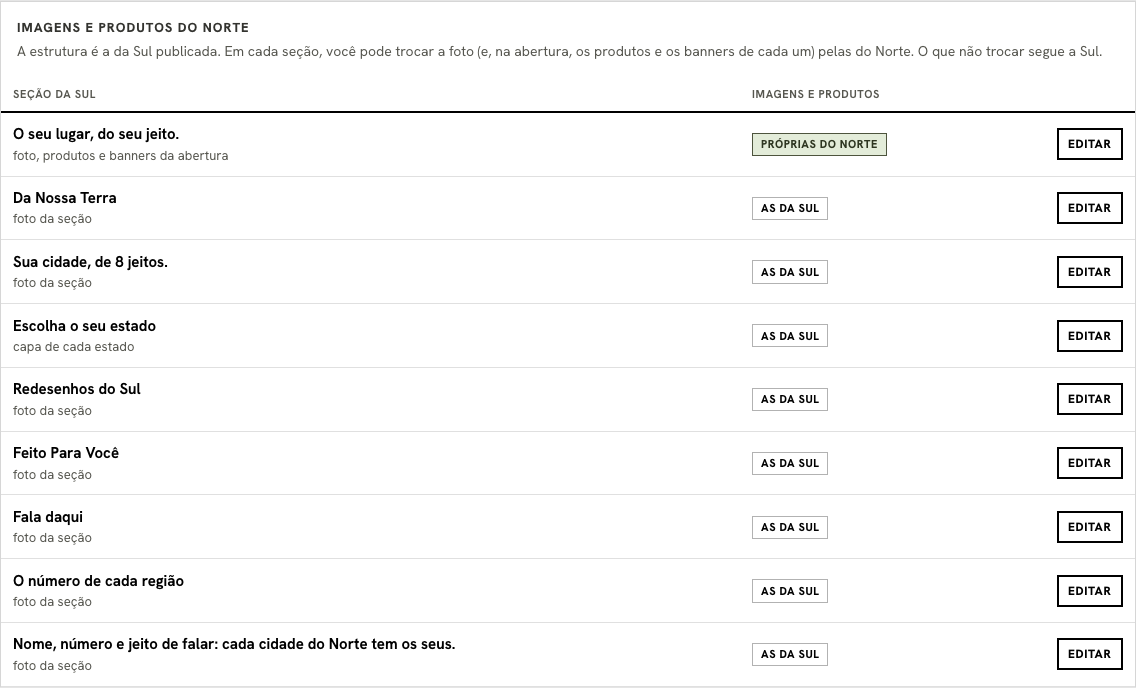
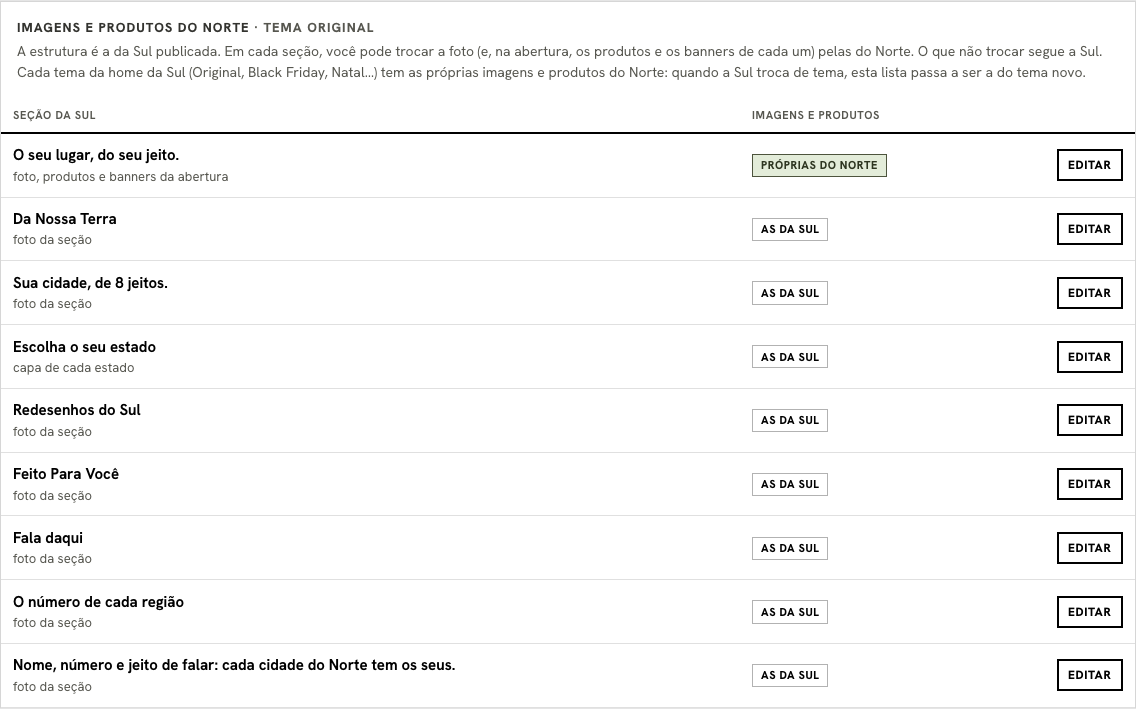
feat(admin): imagens e produtos da região valem por tema da home da Sul
Temas sazonais copiam as seções com os mesmos ids: sem o tema, a foto do
dia a dia do Norte cobriria a abertura de Natal da Sul. Também: lista vazia
não fixa "sem produtos" na região, aviso de legibilidade no modo regional
e teste da mídia enviada na publicação.

diff --git a/src/app/admin/actions.ts b/src/app/admin/actions.ts
@@ -32,7 +32,7 @@ import { collectionState } from "@/lib/catalog/collections";
 import { REGION_SLUGS, type RegionSlug } from "@/lib/geo/regions";
 import { enabledInternalIds, inkCollectionLinks } from "@/lib/site-config/collections-enabled";
 import { MUNDO_MODOS, type MundoModo } from "@/lib/site-config/mundo-schema";
-import { DEFAULT_BUY_LABEL, HOME_THEMES, isUmaPencaSource, MAX_BUY_LABEL, MAX_COLLECTION_NOTE, maxSectionProducts, MENU_HIGHLIGHT_KEYS, MIN_SECTION_PRODUCTS, type CollectionHighlight, type CollectionNote, type HomeThemeName, type ProductDisplay, type Scope, type TrackingConfig, type VendorSetting } from "@/lib/site-config/schema";
+import { DEFAULT_BUY_LABEL, HOME_THEMES, homeThemeOf, isUmaPencaSource, MAX_BUY_LABEL, MAX_COLLECTION_NOTE, maxSectionProducts, MENU_HIGHLIGHT_KEYS, MIN_SECTION_PRODUCTS, type CollectionHighlight, type CollectionNote, type HomeThemeName, type ProductDisplay, type Scope, type TrackingConfig, type VendorSetting } from "@/lib/site-config/schema";
 import { CARD_BUY_STYLE_NAME, postedBuyStyle } from "@/lib/site-config/cards-schema";
 import { DEFAULT_CAROUSEL_END_LABEL, MAX_CAROUSEL_END_LABEL } from "@/lib/site-config/carousel-end-schema";
 import { hasHomeTheme, HOME_THEME_LABEL } from "@/lib/site-config/home-themes";
@@ -495,10 +495,10 @@ export async function setFollowAction(fd: FormData) {
  * One of Sul's sections as the region shows it while following Sul's home: `own` = with the region's pictures and products, else exactly Sul's (adapted).
  * Read from Sul's PUBLISHED document, the one the store follows.
  */
-async function followedSection(scope: RegionSlug, id: string, own: boolean): Promise<Section | undefined> {
+async function followedSection(scope: RegionSlug, id: string, own: boolean): Promise<{ section: Section | undefined; theme: HomeThemeName }> {
   const [ws, sul] = await Promise.all([loadWorkspace(scope), loadWorkspace(FOLLOW_SOURCE)]);
   const doc = { ...ws.doc, follow: ["home" as const], ...(own ? {} : { regional: undefined }) };
-  return followedDoc(doc, sul.baseDoc, true).home?.sections.find((s) => s.id === id);
+  return { section: followedDoc(doc, sul.baseDoc, true).home?.sections.find((s) => s.id === id), theme: homeThemeOf(sul.baseDoc) };
 }
 
 /**
@@ -510,11 +510,13 @@ export async function saveRegionalSection(fd: FormData) {
   const id = text(fd, "id");
   const to = `/admin/home/regional/${id}`;
   if (scope === FOLLOW_SOURCE) back("/admin/home", { err: ["A Sul edita as próprias seções direto."] });
-  const [base, current] = await Promise.all([followedSection(scope, id, false), followedSection(scope, id, true)]);
+  const [{ section: base, theme }, { section: current }] = await Promise.all([followedSection(scope, id, false), followedSection(scope, id, true)]);
   if (!base || !current) back("/admin/home", { err: ["Essa seção não está mais na home publicada da Sul."] });
   const patch = parseSectionForm(fd, current);
-  const same = (a: unknown, b: unknown) => JSON.stringify(a ?? null) === JSON.stringify(b ?? null);
-  const entry: RegionalSection = { sectionId: id };
+  // "Nothing" is one value whatever its spelling (absent, [] or {}): an untouched empty list must not pin "no products" over a later list of Sul's.
+  const empty = (v: unknown) => v === undefined || v === null || (Array.isArray(v) && v.length === 0) || (typeof v === "object" && Object.keys(v as object).length === 0);
+  const same = (a: unknown, b: unknown) => (empty(a) && empty(b)) || JSON.stringify(a ?? null) === JSON.stringify(b ?? null);
+  const entry: RegionalSection = { sectionId: id, ...(theme !== "original" ? { theme } : {}) };
   if (patch.appearance && (!same(patch.appearance.image, base.appearance.image) || !same(patch.appearance.focal, base.appearance.focal))) {
     entry.appearance = { focal: patch.appearance.focal, ...(patch.appearance.image ? { image: patch.appearance.image } : {}) };
   }
@@ -538,14 +540,15 @@ export async function saveRegionalSection(fd: FormData) {
     if (problems.length > 0) back(to, { err: problems });
     if (patch.tiles && !same(patch.tiles, base.tiles)) entry.tiles = patch.tiles;
   }
-  const own = Object.keys(entry).length > 1;
-  return run(fd, { type: "set-regional", sectionId: id, entry: own ? entry : null }, own ? "Rascunho salvo: imagens e produtos desta região. Publique para valer na loja." : "Rascunho salvo: esta seção usa as imagens e os produtos da Sul.", to);
+  const own = Object.keys(entry).some((k) => k !== "sectionId" && k !== "theme");
+  return run(fd, { type: "set-regional", sectionId: id, theme, entry: own ? entry : null }, own ? "Rascunho salvo: imagens e produtos desta região. Publique para valer na loja." : "Rascunho salvo: esta seção usa as imagens e os produtos da Sul.", to);
 }
 
 /** Back to Sul's pictures and products in one of Sul's sections. */
 export async function clearRegionalSection(fd: FormData) {
   const id = text(fd, "id");
-  return run(fd, { type: "set-regional", sectionId: id, entry: null }, "Rascunho salvo: esta seção volta a usar as imagens e os produtos da Sul. Publique para valer na loja.", `/admin/home/regional/${id}`);
+  const theme = homeThemeOf((await loadWorkspace(FOLLOW_SOURCE)).baseDoc);
+  return run(fd, { type: "set-regional", sectionId: id, theme, entry: null }, "Rascunho salvo: esta seção volta a usar as imagens e os produtos da Sul. Publique para valer na loja.", `/admin/home/regional/${id}`);
 }
 
 /** "Página do estado": shows or hides a section that is not built from collections ("Destaques", "Escolha o estilo", "Regiões e cidades"). */

diff --git a/src/lib/site-config/schema.ts b/src/lib/site-config/schema.ts
@@ -311,6 +311,11 @@ export type Section = {
 /** See `ScopeDoc.regional`. At most one of `featured` (the opening), `stateCovers` (the state chooser) and `tiles` (an image grid). */
 export type RegionalSection = {
   sectionId: string;
+  /**
+   * The home theme of Sul this entry belongs to (absent = the original). A seasonal theme is made from the theme in use with the SAME section ids, so
+   * without it a picture chosen for the everyday opening would cover Sul's Natal opening: each theme keeps its own pictures and products.
+   */
+  theme?: Exclude<HomeThemeName, "original">;
   /** The section's picture in this region; `image` absent = no picture here (the section's colour shows). */
   appearance?: Pick<Appearance, "image" | "focal">;
   featured?: FeaturedProductRef[];
@@ -1225,7 +1230,7 @@ function checkCollections(c: Collector, path: string, v: unknown): void {
 
 /** The rules of a home's section list (the live home and every theme kept for later): `path` is where its errors are reported. */
 /**
- * `ScopeDoc.regional`: each entry is checked as the section it would make (its template follows from what it carries), with the region rules of the
+ * `ScopeDoc.regional`: one entry per section and theme, each checked as the section it would make (its template follows from what it carries), with the region rules of the
  * home's sections: covers of THIS region's states, products and links of its own store and pages.
  */
 function checkRegional(c: Collector, path: string, v: unknown, sc: Scope): void {
@@ -1235,9 +1240,11 @@ function checkRegional(c: Collector, path: string, v: unknown, sc: Scope): void 
   v.forEach((e, i) => {
     const at = `${path}[${i}]`;
     if (!isRecord(e) || typeof e.sectionId !== "string" || !ID.test(e.sectionId)) return c.fail(at, "must be { sectionId, … }");
-    if (seen.has(e.sectionId)) c.fail(at, "one entry per section");
-    seen.add(e.sectionId);
-    for (const key of Object.keys(e)) if (!["sectionId", "appearance", "featured", "featuredRotation", "stateCovers", "tiles"].includes(key)) c.fail(`${at}.${key}`, "unknown field");
+    if (e.theme !== undefined && (e.theme === "original" || !(HOME_THEMES as readonly unknown[]).includes(e.theme))) c.fail(`${at}.theme`, "a home theme other than the original (absent = original)");
+    const key = `${e.sectionId}:${String(e.theme ?? "original")}`;
+    if (seen.has(key)) c.fail(at, "one entry per section and theme");
+    seen.add(key);
+    for (const key of Object.keys(e)) if (!["sectionId", "theme", "appearance", "featured", "featuredRotation", "stateCovers", "tiles"].includes(key)) c.fail(`${at}.${key}`, "unknown field");
     const kinds = [e.featured !== undefined || e.featuredRotation !== undefined, e.stateCovers !== undefined, e.tiles !== undefined].filter(Boolean).length;
     if (kinds > 1) c.fail(at, "the opening's products, the states' covers or the grid's blocks: one of them");
     const look = isRecord(e.appearance) ? e.appearance : {};

diff --git a/src/lib/admin/diff.ts b/src/lib/admin/diff.ts
@@ -10,7 +10,7 @@ import type { PromotionItem } from "../site-config/promotions-schema";
 import type { TopBarMessage } from "../site-config/top-bar-schema";
 import { kitTexts } from "../site-config/post-add-kit-schema";
 import { assistantLabel, assistantTopics, type AssistantAnswer } from "../site-config/assistant-schema";
-import { HOME_THEMES, homeThemeOf, type CollectionHighlight, type CollectionRef, type ScopeDoc, type Section } from "../site-config/schema";
+import { HOME_THEMES, homeThemeOf, type CollectionHighlight, type HomeThemeName, type CollectionRef, type ScopeDoc, type Section } from "../site-config/schema";
 import { HOME_THEME_LABEL, swapHomeTheme } from "../site-config/home-themes";
 import { CARD_BUY_STYLE_NAME } from "../site-config/cards-schema";
 
@@ -126,13 +126,17 @@ function followChanges(published: ScopeDoc, draft: ScopeDoc): Change[] {
 /** The region's own pictures and products over Sul's sections, one line per section that changed. */
 function regionalChanges(published: ScopeDoc, draft: ScopeDoc, sulSection: (id: string) => string | null): Change[] {
   if (draft.scope === "global") return [];
-  const was = new Map((published.regional ?? []).map((e) => [e.sectionId, json(e)]));
-  const now = new Map((draft.regional ?? []).map((e) => [e.sectionId, json(e)]));
+  const key = (e: { sectionId: string; theme?: HomeThemeName }) => `${e.sectionId}|${e.theme ?? "original"}`;
+  const was = new Map((published.regional ?? []).map((e) => [key(e), json(e)]));
+  const now = new Map((draft.regional ?? []).map((e) => [key(e), json(e)]));
   const name = REGIONS[draft.scope].name;
-  return [...new Set([...was.keys(), ...now.keys()])].flatMap((id) => {
-    if (was.get(id) === now.get(id)) return [];
-    const text = !now.has(id) ? `volta a usar as imagens e os produtos da Sul` : !was.has(id) ? `passa a ter imagens e produtos próprios do ${name}` : `imagens e produtos do ${name} alterados`;
-    return [{ kind: "follow" as const, sectionId: `regional-${id}`, text: `“${sulSection(id) ?? id}” (seção da Sul): ${text}` }];
+  return [...new Set([...was.keys(), ...now.keys()])].flatMap((k) => {
+    if (was.get(k) === now.get(k)) return [];
+    const [id, theme] = k.split("|") as [string, HomeThemeName];
+    const inTheme = theme === "original" ? "" : `, tema ${HOME_THEME_LABEL[theme]}`;
+    if (!now.has(k)) return [{ kind: "follow" as const, sectionId: `regional-${k}`, text: `“${sulSection(id) ?? id}” (seção da Sul${inTheme}): volta a usar as imagens e os produtos da Sul` }];
+    const text = !was.has(k) ? `passa a ter imagens e produtos próprios do ${name}` : `imagens e produtos do ${name} alterados`;
+    return [{ kind: "follow" as const, sectionId: `regional-${k}`, text: `“${sulSection(id) ?? id}” (seção da Sul${inTheme}): ${text}` }];
   });
 }
 

diff --git a/src/components/admin/FollowCard.tsx b/src/components/admin/FollowCard.tsx
@@ -7,7 +7,9 @@ import type { RegionSlug } from "@/lib/geo/regions";
 import { canFollowSul } from "@/lib/site-config/published";
 import { FOLLOW_SOURCE, REGION_TOKEN, followsPart, type FollowPart } from "@/lib/site-config/follow-schema";
 import type { ScopeDoc, Section } from "@/lib/site-config/schema";
-import { followedDoc } from "@/lib/site-config/follow";
+import { followedDoc, regionalOf } from "@/lib/site-config/follow";
+import { HOME_THEME_LABEL } from "@/lib/site-config/home-themes";
+import { homeThemeOf } from "@/lib/site-config/schema";
 
 /** The part with its article, inside a sentence ("Norte segue a home da Sul"). */
 const THE: Record<FollowPart, string> = { home: "a home", menu: "o menu", statePage: "a página do estado", pages: "as páginas" };
@@ -103,12 +105,13 @@ export async function RegionalSectionsList({ scope, doc }: { scope: RegionSlug; 
   if (scope === FOLLOW_SOURCE || !followsPart(doc, "home")) return null;
   const sul = await loadWorkspace(FOLLOW_SOURCE);
   const sections = (followedDoc(doc, sul.baseDoc, true).home?.sections ?? []).filter((s) => s.template !== "footer");
-  const own = new Set((doc.regional ?? []).map((e) => e.sectionId));
+  const own = new Set(regionalOf(doc, sul.baseDoc).map((e) => e.sectionId));
+  const theme = homeThemeOf(sul.baseDoc);
   return (
     <section id="imagens-regiao" className="a-card scroll-mt-4 overflow-x-auto" aria-labelledby="imagens-regiao-titulo" data-testid="regional-sections">
       <div className="p-4">
-        <h2 id="imagens-regiao-titulo" className="a-h2">Imagens e produtos do {scopeName(scope)}</h2>
-        <p className="a-muted mt-1 text-[0.875rem]">A estrutura é a da Sul publicada. Em cada seção, você pode trocar a foto (e, na abertura, os produtos e os banners de cada um) pelas do {scopeName(scope)}. O que não trocar segue a Sul.</p>
+        <h2 id="imagens-regiao-titulo" className="a-h2">Imagens e produtos do {scopeName(scope)} <span className="a-muted">· tema {HOME_THEME_LABEL[theme]}</span></h2>
+        <p className="a-muted mt-1 text-[0.875rem]">A estrutura é a da Sul publicada. Em cada seção, você pode trocar a foto (e, na abertura, os produtos e os banners de cada um) pelas do {scopeName(scope)}. O que não trocar segue a Sul. Cada tema da home da Sul (Original, Black Friday, Natal…) tem as próprias imagens e produtos do {scopeName(scope)}: quando a Sul troca de tema, esta lista passa a ser a do tema novo.</p>
       </div>
       <table className="a-table a-stack">
         <thead><tr><th scope="col">Seção da Sul</th><th scope="col">Imagens e produtos</th><th scope="col"><span className="sr-only">Editar</span></th></tr></thead>

diff --git a/tests/unit/follow.test.ts b/tests/unit/follow.test.ts
@@ -217,6 +217,7 @@ describe("Seguir a Sul: imagens e produtos da região", () => {
 
   test("a estrutura vem da Sul; banner, produtos da abertura e capas são os da região", () => {
     const sul = sulWithStructure();
+    delete sul.homeTheme; // the original theme: the entries without a theme are its own
     const hero = sul.home!.sections[0];
     hero.appearance = { ...hero.appearance, image: { mobile: img("sul-hero") } };
     hero.featured = [{ store: "use-sul", productId: "111" }];
@@ -243,8 +244,29 @@ describe("Seguir a Sul: imagens e produtos da região", () => {
     expect(out.home!.sections.find((s) => s.id === "custom-novidades")!.appearance).toEqual(sul.home!.sections.find((s) => s.id === "custom-novidades")!.appearance);
   });
 
+  test("cada tema da Sul tem as imagens e os produtos da região: a abertura de Natal não leva a foto do dia a dia", () => {
+    const sul = sulWithStructure(); // Sul has Natal in use
+    const hero = sul.home!.sections[0];
+    hero.appearance = { ...hero.appearance, image: { mobile: img("sul-natal") } };
+    const norte = doc("norte");
+    norte.follow = ["home"];
+    norte.regional = [
+      { sectionId: hero.id, appearance: { image: { mobile: img("norte-dia-a-dia") }, focal } },
+      { sectionId: hero.id, theme: "natal", featured: [{ store: "use-sul", productId: "333" }] },
+    ];
+    expect(validateScopeDoc(norte)).toMatchObject({ ok: true });
+    let out = followedDoc(norte, sul, true).home!.sections[0];
+    expect(out.appearance.image).toEqual({ mobile: img("sul-natal") });
+    expect(out.featured).toEqual([{ store: "use-sul", productId: "333" }]);
+    delete sul.homeTheme;
+    out = followedDoc(norte, sul, true).home!.sections[0];
+    expect(out.appearance.image).toEqual({ mobile: img("norte-dia-a-dia") });
+    expect(validateScopeDoc({ ...norte, regional: [...norte.regional, { sectionId: hero.id, theme: "natal", appearance: { focal } }] }).ok).toBe(false);
+  });
+
   test("sem imagem na região = a seção fica sem a foto da Sul", () => {
     const sul = sulWithStructure();
+    delete sul.homeTheme;
     sul.home!.sections[1].appearance = { ...sul.home!.sections[1].appearance, image: { mobile: img("sul-banner") } };
     const norte = { ...doc("norte"), follow: ["home" as const], regional: [{ sectionId: sul.home!.sections[1].id, appearance: { focal } }] };
     expect(followedDoc(norte, sul, true).home!.sections[1].appearance.image).toBeUndefined();

diff --git a/src/lib/site-config/follow.ts b/src/lib/site-config/follow.ts
@@ -21,7 +21,7 @@ import { REGIONS, REGION_SLUGS, STATE_NAMES, type RegionSlug } from "../geo/regi
 import { effectiveMenu } from "./collection-menu";
 import { FOLLOW_SOURCE, REGION_TOKEN, followsPart } from "./follow-schema";
 import { defaultStatesBlockLabel } from "./navigation";
-import { PAGE_SEGMENT, type CollectionRef, type Customizer, type Destination, type Page, type PublishedBundle, type RegionalSection, type ScopeDoc, type Section } from "./schema";
+import { homeThemeOf, PAGE_SEGMENT, type CollectionRef, type Customizer, type Destination, type Page, type PublishedBundle, type RegionalSection, type ScopeDoc, type Section } from "./schema";
 
 export { REGION_TOKEN };
 
@@ -69,6 +69,9 @@ export function followedDestination(d: Destination, ctx: Adapt): Destination | u
   segments[0] = ctx.to;
   return { kind: "route", path: `/${segments.join("/")}${url.search}${url.hash}` };
 }
+
+/** The region's own pictures and products for the home theme Sul has in use (each theme keeps its own: `RegionalSection.theme`). */
+export const regionalOf = (doc: ScopeDoc, sul: ScopeDoc): RegionalSection[] => (doc.regional ?? []).filter((e) => (e.theme ?? "original") === homeThemeOf(sul));
 
 /** The region's own pictures and products over one of Sul's sections (`ScopeDoc.regional`): only what the entry carries is replaced. */
 export function withRegional(s: Section, own: RegionalSection | undefined): Section {
@@ -136,7 +139,7 @@ export function followedDoc(doc: ScopeDoc, sul: ScopeDoc | undefined, canFollow:
     if (follows("pages")) next.pages = pages.map((p) => (own.includes(p) ? p : { ...p, sections: followedSections(p.sections, ctx) }));
 
     if (follows("home") && sul.home) {
-      next.home = { sections: followedSections(sul.home.sections, ctx, doc.regional) };
+      next.home = { sections: followedSections(sul.home.sections, ctx, regionalOf(doc, sul)) };
       if (sul.homeTheme) {
         // A theme other than the original is its sections AND its colours (Black Friday, Natal): the palette comes with it. On the original, the
         // region keeps its own colours.

diff --git a/src/app/admin/(panel)/home/regional/[id]/page.tsx b/src/app/admin/(panel)/home/regional/[id]/page.tsx
@@ -15,7 +15,9 @@ import { currentScope, scopeName, storeOf } from "@/lib/admin/scope";
 import { toComboEntries } from "@/lib/admin/combo";
 import { libraryEntries } from "@/lib/catalog/collection-source";
 import { enabledInternalIds } from "@/lib/site-config/collections-enabled";
-import { followedDoc } from "@/lib/site-config/follow";
+import { followedDoc, regionalOf } from "@/lib/site-config/follow";
+import { HOME_THEME_LABEL } from "@/lib/site-config/home-themes";
+import { homeThemeOf } from "@/lib/site-config/schema";
 import { FOLLOW_SOURCE } from "@/lib/site-config/follow-schema";
 
 /**
@@ -31,7 +33,8 @@ export default async function RegionalSection({ params, searchParams }: { params
   const [ws, sul] = await Promise.all([loadWorkspace(scope), loadWorkspace(FOLLOW_SOURCE)]);
   const section = followedDoc({ ...ws.doc, follow: ["home"] }, sul.baseDoc, true).home?.sections.find((s) => s.id === id);
   if (!section) notFound();
-  const own = ws.doc.regional?.some((e) => e.sectionId === id) ?? false;
+  const theme = homeThemeOf(sul.baseDoc);
+  const own = regionalOf(ws.doc, sul.baseDoc).some((e) => e.sectionId === id);
 
   const media = await listMedia();
   const slotViews = (refs: FeaturedProductRef[]): FeaturedSlotView[] =>
@@ -52,6 +55,7 @@ export default async function RegionalSection({ params, searchParams }: { params
         <p className="mt-2 flex flex-wrap items-center gap-2">
           <span className="a-badge">{section.template}</span>
           {own ? <span className="a-badge ok">Próprias do {scopeName(scope)}</span> : <span className="a-badge">As da Sul</span>}
+          <span className="a-badge" title="Cada tema da home da Sul tem as próprias imagens e produtos desta região">Tema {HOME_THEME_LABEL[theme]}</span>
         </p>
       </div>
       <Flash ok={sp.ok} err={sp.err} />

diff --git a/tests/unit/follow-publish.test.ts b/tests/unit/follow-publish.test.ts
@@ -4,7 +4,7 @@ import { describe, expect, test, vi } from "vitest";
 vi.mock("@/lib/site-config/published", async (original) => ({ ...(await original<typeof import("@/lib/site-config/published")>()), canFollowSul: () => true }));
 
 import { defaultAppearance } from "@/lib/admin/draft-ops";
-import { preflight, seedForEnv } from "@/lib/admin/publishing";
+import { composeBundle, preflight, seedForEnv } from "@/lib/admin/publishing";
 import type { Section } from "@/lib/site-config/schema";
 
 const headless = { releases: { head: async () => null } as never, media: async () => ({}) };
@@ -23,5 +23,14 @@ describe("Seguir a Sul na publicação da região", () => {
     expect(own.join(" ")).toContain("Vitrine antiga");
     const following = { ...norteWithStaleHome(), follow: ["home" as const] };
     expect(await preflight(headless, following)).toEqual([]);
+  });
+
+  test("uma imagem enviada para o Norte sobre uma seção da Sul entra na tabela de mídia publicada", async () => {
+    const asked: string[] = [];
+    const deps = { releases: { head: async () => null } as never, media: async (ids: Set<string>) => { asked.push(...ids); return Object.fromEntries([...ids].filter((id) => id.startsWith("01J")).map((id) => [id, { src: `/media/${id}.webp`, width: 1200, height: 1500 }])); } };
+    const norte = { ...structuredClone(seedForEnv().docs.norte), follow: ["home" as const], regional: [{ sectionId: "seed-hero", appearance: { image: { mobile: { assetId: "01JNORTEBANNER", alt: "Belém", decorative: false } }, focal: { mobile: { x: 50, y: 50 }, desktop: { x: 50, y: 50 } } } }] };
+    const bundle = await composeBundle(deps, norte, "r-test");
+    expect(asked).toContain("01JNORTEBANNER");
+    expect(bundle.media["01JNORTEBANNER"]).toMatchObject({ src: "/media/01JNORTEBANNER.webp" });
   });
 });

diff --git a/src/lib/admin/draft-ops.ts b/src/lib/admin/draft-ops.ts
@@ -136,7 +136,7 @@ export type DraftOp =
   /** Norte / Centro-Oeste: follow Sul in one part, or go back to the region's own ("Seguir a Sul"; the own content is never touched). */
   | { type: "set-follow"; part: FollowPart; on: boolean }
   /** Norte / Centro-Oeste: the region's own pictures and products over one of Sul's sections (replaces that section's entry; `null` = back to Sul's). */
-  | { type: "set-regional"; sectionId: string; entry: RegionalSection | null }
+  | { type: "set-regional"; sectionId: string; theme: HomeThemeName; entry: RegionalSection | null }
   /** REGION only: replaces the "Tema da INK" (surfaces on/off and presets). Strictly validated. */
   | { type: "set-ink-theme"; inkTheme: InkThemeConfig }
   /** Launches / recalls a region publicly (takes effect only when published). */
@@ -349,7 +349,7 @@ export function applyOp(doc: ScopeDoc, op: DraftOp, ctx: OpContext): OpResult {
   }
   if (op.type === "set-regional") {
     if (doc.scope === "global" || doc.scope === "sul") return fail("only a region that follows Sul has its own pictures and products over Sul's sections");
-    const rest = (doc.regional ?? []).filter((e) => e.sectionId !== op.sectionId);
+    const rest = (doc.regional ?? []).filter((e) => e.sectionId !== op.sectionId || (e.theme ?? "original") !== op.theme);
     const list = op.entry ? [...rest, op.entry] : rest;
     const next: ScopeDoc = { ...doc, regional: list };
     if (list.length === 0) delete next.regional;

diff --git a/src/components/admin/SectionEditorForm.tsx b/src/components/admin/SectionEditorForm.tsx
@@ -671,13 +671,14 @@ export function SectionEditorForm({
               <select id="fallback" name="fallback" className="a-select" defaultValue={section.fallback ?? "crops"}><option value="crops">Recortes de camisetas (padrão)</option><option value="fill">Só a cor/degradê acima</option></select>
             </div>
           )}
+          </>)}
+          {/* In the regional mode too: the region's picture goes under Sul's veil and text colour, the place where a title can become unreadable. */}
           {issues.length > 0 && (
             <div className={`a-flash ${issues.some((i) => i.level === "blocking") ? "err" : "ok"}`} role="status">
               <p className="font-extrabold">Legibilidade do texto</p>
               {issues.map((i) => <p key={i.message}>{i.level === "blocking" ? "⛔ " : "⚠ "}{i.message}</p>)}
             </div>
           )}
-          </>)}
         </fieldset>
       )}
 

diff --git a/docs/admin/seguir-a-sul.md b/docs/admin/seguir-a-sul.md
@@ -28,6 +28,10 @@ A ideia é seguir a **estrutura** da Sul: cada região mantém os produtos e os 
 - a capa de cada estado;
 - os blocos de uma grade de imagens (imagem, texto e link).
 
+**Vale por tema:** cada tema da home da Sul (Original, Editorial, Black Friday, Natal) tem as próprias imagens e produtos da região. As fotos do
+dia a dia do Norte não cobrem a abertura de Natal da Sul: quando a Sul troca de tema, a lista passa a ser a do tema novo, e o que não for trocado
+nele mostra o da Sul.
+
 Só o que for trocado fica guardado na região. O resto continua seguindo a Sul, e uma mudança na Sul passa a valer lá também. **Voltar a usar as
 imagens e os produtos da Sul** desfaz a troca daquela seção. Textos, ordem, layout e as coleções das vitrines vêm sempre da Sul (cada região já
 mostra só os produtos dela em cada coleção).
